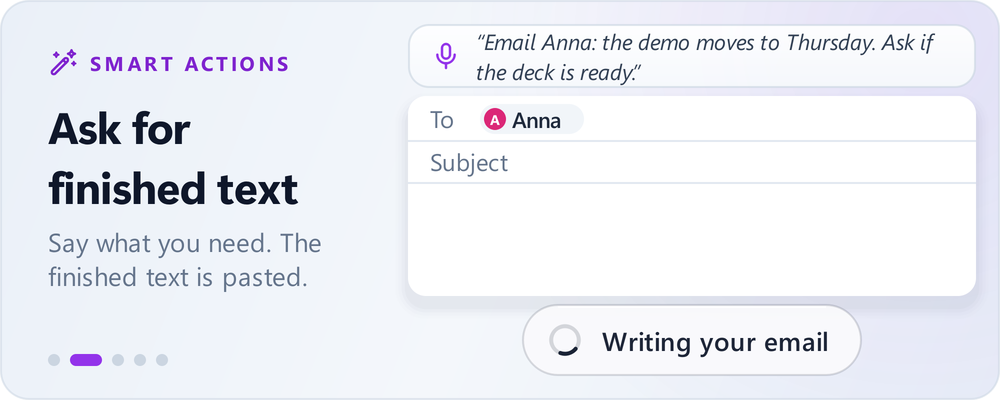
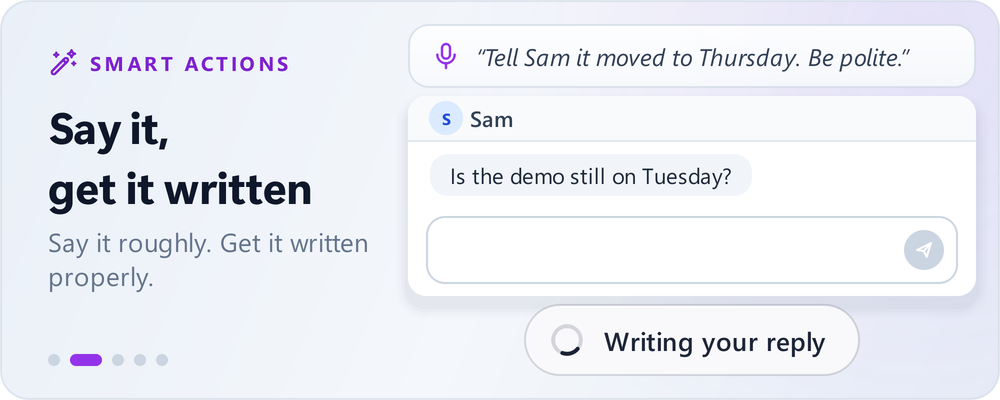
installer: Inno Setup 6 timer types, key-free finish page, clearer slides (review fixes)
- installer.iss: SetTimer/KillTimer/SlideTimerProc use plain LongWord (the Inno
  Setup 6 example); HWND, UINT_PTR and NativeInt are Inno Setup 7 types that the
  6.7 compiler in CI does not know.
- Finish page text names no key ("Press your dictation shortcut in any app and
  talk.") and the finish picture shows a microphone instead of the Alt + R keys.
- Slide 2 (Smart Actions) is a chat reply with its own title and line, no longer
  the email scene of slide 1.
- Slide 4: the card is a small readable Live Assistant card in the left half; the
  divider no longer cuts a letter or the card, and the longest frame shows the
  Hidden note on the "They see" side.
- Slide 5: sample file is team_call_mariam (no "interview"), the transcript is a
  work call, and the last frame keeps the file chip clear of the text.
- tests: Inno Setup 6 declarations pinned (no NativeInt/HWND/UINT_PTR), no key in
  the finish text, no retired wording in the pictures.

diff --git a/installer/make_wizard_art.py b/installer/make_wizard_art.py
@@ -10,8 +10,13 @@ Nothing here runs in CI and nothing at install time: run it by hand after a desi
     venv\\Scripts\\python.exe installer\\make_wizard_art.py            # everything
     venv\\Scripts\\python.exe installer\\make_wizard_art.py --only slides 3 5
 
-Screens are painted with the app's own helpers (ui.theme tokens and fonts, the dictation bar, the Live Assistant
-card, the icons), at 4x and then halved with Lanczos, so text stays crisp at 100% and at 200% screen scale.
+Screens are painted with the app's own helpers (ui.theme tokens and fonts, the dictation bar, the icons), at 4x and
+then halved with Lanczos, so text stays crisp at 100% and at 200% screen scale.
+
+The slides are 1000x400 and Setup stretches them to the width of the progress bar: about 513 px at 100% screen
+scale, so crisp up to about 175%; stretched about 1.1x at 200%, 1.27x at 225% and 1.36x at 250% (soft small text on
+4K laptops). That is accepted: a second picture set would break the size budget and the simple script. If it is
+ever wanted, draw all frames once at about 1360x544 and keep a single file list.
 """
 import argparse
 import json
@@ -50,7 +55,6 @@ theme.load_fonts()
 
 from ui.components import icons  # noqa: E402
 from ui.onboarding_v2 import PILL_DONE, PILL_HAIR, PILL_TINT, WAVE_HEIGHTS, ink, paint_pill  # noqa: E402
-from ui.pages import live_demo  # noqa: E402
 
 q = theme.qcolor
 SS = 4                       # painted at 4x of the logical size ...
@@ -70,8 +74,8 @@ SLIDES = {
     1: dict(eyebrow="Dictation", icon="mic", title="Type with\nyour voice",
             line="Press a shortcut, talk, and it types anywhere.",
             accent=("#2563eb", "#1d4ed8"), ms=(600, 600, 700, 700, 700, 2700)),
-    2: dict(eyebrow="Smart Actions", icon="wand", title="Ask for\nfinished text",
-            line="Say what you need. The finished text is pasted.",
+    2: dict(eyebrow="Smart Actions", icon="wand", title="Say it,\nget it written",
+            line="Say it roughly. Get it written properly.",
             accent=("#9333ea", "#7e22ce"), ms=(600, 600, 900, 900, 900, 2100)),
     3: dict(eyebrow="Meetings", icon="people", title="Meeting notes,\nno bot",
             line="Record a call. Get the summary and action items.",
@@ -371,6 +375,40 @@ def scene1(p, f):
 
 
 # ── slide 2: Smart Actions ───────────────────────────────────────────────────
+def chat_window(p, r, who, bubble, reply):
+    """A chat with ``who``: one incoming bubble and, at the bottom, the field the finished text lands in
+    (``reply`` is a list of lines; empty while nothing is pasted yet)."""
+    r = QRectF(r)
+    shadow(p, r, 9, 16, 8, 5)
+    path = QPainterPath()
+    path.addRoundedRect(r, 9, 9)
+    p.fillPath(path, QColor("#ffffff"))
+    p.save()
+    p.setClipPath(path)
+    p.fillRect(QRectF(r.left(), r.top(), r.width(), 22), q("bg"))
+    p.fillRect(QRectF(r.left(), r.top() + 22, r.width(), 1), q("line"))
+    avatar(p, r.left() + 19, r.top() + 11, 17, who[0], ring=False)
+    text(p, QRectF(r.left() + 31, r.top(), 120, 22), who, 11, 600, "text2")
+    # what they wrote: a grey bubble on the left
+    bw = text_w(bubble, 11, 400) + 20
+    b = QRectF(r.left() + 11, r.top() + 29, bw, 21)
+    pill(p, b, "bg2", radius=9)
+    text(p, b, bubble, 11, 400, "text", Qt.AlignCenter)
+    # the field, with the send button
+    field = QRectF(r.left() + 9, r.bottom() - 40, r.width() - 18, 34)
+    p.setPen(QPen(q("line2"), 1))
+    p.setBrush(QColor("#ffffff"))
+    p.drawRoundedRect(field.adjusted(.5, .5, -.5, -.5), 9, 9)
+    for i, ln in enumerate(reply):
+        text(p, QRectF(field.left() + 9, field.top() + 3 + i * 14, field.width() - 46, 14), ln, 11, 400, "text")
+    btn = QRectF(field.right() - 27, field.center().y() - 10, 20, 20)
+    p.setPen(Qt.NoPen)
+    p.setBrush(q("blue") if reply else q("line2"))
+    p.drawEllipse(btn)
+    icon(p, "send", btn.adjusted(4.5, 4.5, -4.5, -4.5), QColor("#ffffff"), 2.2)
+    p.restore()
+
+
 def scene2(p, f):
     # what you say (the page's own words until you speak)
     strip = QRectF(SX, 12, SW, 32)
@@ -382,29 +420,28 @@ def scene2(p, f):
     else:
         icon(p, "mic", QRectF(strip.left() + 11, strip.center().y() - 8, 16, 16), q("pro"), 1.8)
         text(p, QRectF(strip.left() + 34, strip.top() + 1, strip.width() - 44, strip.height() - 2),
-             "“Email Anna: the demo moves to Thursday. Ask if the deck is ready.”", 11, 400, "text2",
-             wrap=True, italic=True)
-    # the mail it writes
-    subject = "Demo moves to Thursday" if f >= 5 else ""
-    lines = []
+             "“Tell Sam it moved to Thursday. Be polite.”", 11.5, 400, "text2", italic=True)
+    # the reply it writes
+    reply = []
     if f == 5:
-        lines = ["Hi Anna,"]
+        reply = ["Hi Sam, the demo has moved to Thursday."]
     elif f == 6:
-        lines = ["Hi Anna,", "The demo moves to Thursday. Is the deck ready?", "Best,"]
-    mail_window(p, QRectF(SX, 48, SW, 100), "Anna", lines, subject=subject, header=None, body_px=11.5, line_h=14.5)
+        reply = ["Hi Sam, the demo has moved to Thursday.", "Sorry for the change, and thanks!"]
+    chat_window(p, QRectF(SX, 48, SW, 100), "Sam", "Is the demo still on Tuesday?", reply)
     cx, by = SX + SW / 2, 152
     if f in (1, 2):
         keys(p, cx, by + 18, "Alt", "S", lit=(f == 2))
     elif f == 3:
         bar(p, cx, by, "recording", t=0.6)
     elif f == 4:
-        bar(p, cx, by, "transcribing", "Writing your email", t=0.3)
+        bar(p, cx, by, "transcribing", "Writing your reply", t=0.3)
     else:
-        bar(p, cx, by, "pasted", "Email pasted")
+        bar(p, cx, by, "pasted", "Reply pasted")
 
 
 # ── slide 3: Meetings ────────────────────────────────────────────────────────
-FACES = {"A": ("#fce7f3", "#be185d"), "D": ("#e2e8f0", "#475569"), "M": ("#fef3c7", "#92400e")}
+FACES = {"A": ("#fce7f3", "#be185d"), "D": ("#e2e8f0", "#475569"), "M": ("#fef3c7", "#92400e"),
+         "S": ("#dbeafe", "#1d4ed8")}
 
 
 def avatar(p, cx, cy, d, letter, ring=True):
@@ -548,22 +585,35 @@ def label_chip(p, rect, s):
     text(p, r, s, 10, 600, "#ffffff", Qt.AlignCenter)
 
 
-def card_image(scale):
-    """The Live Assistant card (the page's own miniature painter) on a transparent picture of its own, so a
-    clip on the slide cuts it whole (the painter sets clips of its own, which would replace ours)."""
-    cs = live_demo.card_size(scale)
-    c = Canvas(cs.width(), cs.height(), SS, alpha=True)
-    live_demo.paint_card(c.p, 0, 0, "Hidden", "ok", "incognito", scale, None, "light")
-    c.p.end()
-    return c.img, cs
+def assistant_card(p, x, y, w, h, answered):
+    """A small Live Assistant card: its name and the green Hidden chip, the question and the answer. All text is
+    9.5 px or more (it is read at about half size). Before the answer, three dots show that it is being written."""
+    r = QRectF(x, y, w, h)
+    glass(p, r, 10, 250)
+    text(p, QRectF(r.left() + 10, r.top() + 5, 74, 18), "Live Assistant", 9.5, 700, "ink")
+    chip = QRectF(r.right() - 10 - 56, r.top() + 6, 56, 17)
+    pill(p, chip, "#dcfce7", "#86efac")
+    icon(p, "incognito", QRectF(chip.left() + 5, chip.top() + 3.5, 10, 10), q("ok-tx"), 1.8)
+    text(p, QRectF(chip.left() + 18, chip.top(), 36, chip.height()), "Hidden", 9.5, 700, "ok-tx")
+    inner_w = w - 20
+    ask = QRectF(r.left() + 10, r.top() + 28, inner_w, 30)
+    pill(p, ask, "bg2", radius=7)
+    text(p, ask.adjusted(7, 0, -7, 0), "When will the Q4 roadmap be ready?", 9.5, 400, "text", wrap=True)
+    ans = QRectF(r.left() + 10, ask.bottom() + 5, inner_w, r.bottom() - 8 - (ask.bottom() + 5))
+    pill(p, ans, "#eff6ff", "#bfdbfe", radius=7)
+    if answered:
+        text(p, ans.adjusted(7, 0, -7, 0), "Say: “It’s ready for 14 October if we freeze features on Friday.”", 9.5,
+             500, "ink", wrap=True)
+    else:
+        p.setPen(Qt.NoPen)
+        p.setBrush(q("faint"))
+        for i in range(3):
+            p.drawEllipse(QPointF(ans.left() + 13 + i * 9, ans.center().y()), 2.2, 2.2)
 
 
 def scene4(p, f):
     win = QRectF(SX, SY, SW, SH)
     inner = call_window(p, win)
-    scale = 0.34
-    img, cs = card_image(scale)
-    cx, cy = inner.right() - cs.width() - 9, inner.bottom() - cs.height() - 9
     if f == 1:
         # the question, as the call's own caption
         cap = QRectF(inner.left() + 12, inner.bottom() - 36, inner.width() - 24, 26)
@@ -571,21 +621,14 @@ def scene4(p, f):
         text(p, cap.adjusted(10, 0, -8, 0), "Mariam: When will the Q4 roadmap be ready?", 10.5, 500,
              "#ffffff")
         return
-    split = {2: None, 3: None, 4: 0.62, 5: 0.28}[f]
-    x_cut = cx + cs.width() if split is None else min(cx + cs.width(), win.left() + win.width() * split)
-    vis = x_cut - cx                                   # the part of the card that is on the left of the line
-    if vis > 0:
-        p.save()
-        p.setOpacity(0.5 if f == 2 else 1.0)
-        p.setClipRect(QRectF(win.left(), win.top(), x_cut - win.left(), win.height()))
-        shadow(p, QRectF(cx, cy, cs.width(), cs.height()), 8, 34, 8, 4)
-        p.restore()
-        p.save()
-        p.setOpacity(0.5 if f == 2 else 1.0)
-        p.drawImage(QRectF(cx, cy, vis, cs.height()), img, QRectF(0, 0, vis * SS, cs.height() * SS))
-        p.restore()
-    if split is None:
+    # The card sits in the left half of the call. From frame 4 the line splits the screen: the left side is what
+    # you see, the right side what the others see. The line stays in the gap between the "M" and "D" letters
+    # (and the "You" label), and the card ends before it, so nothing is cut.
+    card_h = 111.0
+    assistant_card(p, inner.left() + 9, inner.bottom() - card_h - 9, 150.0, card_h, f >= 3)
+    if f < 4:
         return
+    split = 0.64
     x = win.left() + win.width() * split
     mid = win.center().y()
     p.setPen(QPen(QColor("#0f172a"), 1.6))
@@ -600,15 +643,18 @@ def scene4(p, f):
     label_chip(p, QRectF(win.left() + 12, win.top() + 12, 54, 19), "You see")
     label_chip(p, QRectF(win.right() - 66, win.top() + 12, 54, 19), "They see")
     if f == 5:
-        chip = QRectF(win.left() + win.width() * 0.72 - 46, mid - 13, 92, 26)
+        # in the middle of the "They see" side (clear of the handle): the card is not there, only this note
+        cw = 9 + 16 + 5 + text_w("Hidden", 11.5, 700) + 10
+        mid_x = win.left() + win.width() * (split + 1) / 2
+        chip = QRectF(max(mid_x - cw / 2, x + 16), mid - 13, cw, 26)
         shadow(p, chip, 13, 24, 5, 3)
         pill(p, chip, "#dcfce7", "#86efac")
         icon(p, "incognito", QRectF(chip.left() + 9, chip.top() + 5, 16, 16), q("ok-tx"), 1.7)
-        text(p, QRectF(chip.left() + 29, chip.top(), 60, 26), "Hidden", 11.5, 700, "ok-tx")
+        text(p, QRectF(chip.left() + 30, chip.top(), cw - 30, 26), "Hidden", 11.5, 700, "ok-tx")
 
 
 # ── slide 5: Audio to text ───────────────────────────────────────────────────
-def file_chip(p, cx, cy, name="interview_mariam.m4a", angle=0.0, icon_name="mic", tile="#e8f0fe", tint="blue",
+def file_chip(p, cx, cy, name="team_call_mariam.m4a", angle=0.0, icon_name="mic", tile="#e8f0fe", tint="blue",
               check=False):
     w = text_w(name, 11, 600) + 50 + (18 if check else 0)
     r = QRectF(-w / 2, -15, w, 30)
@@ -678,7 +724,7 @@ def scene5(p, f):
         p.drawRoundedRect(tile, 10, 10)
         icon(p, "mic", tile.adjusted(8, 8, -8, -8), q("blue"), 1.9)
         x0 = card.left() + 58
-        text(p, QRectF(x0, card.top() + 12, 150, 20), "interview_mariam.m4a", 12, 700, "ink")
+        text(p, QRectF(x0, card.top() + 12, 150, 20), "team_call_mariam.m4a", 12, 700, "ink")
         if f == 4:
             p.setPen(Qt.NoPen)
             p.setBrush(PILL_DONE)
@@ -707,14 +753,16 @@ def scene5(p, f):
     L = paper.left() + 16
     p.save()
     if f == 6:
-        p.setOpacity(0.35)
-    text(p, QRectF(L, paper.top() + 12, 170, 18), "interview_mariam.m4a", 12.5, 700, "ink")
+        p.setOpacity(0.7)
+    text(p, QRectF(L, paper.top() + 12, 170, 18), "team_call_mariam.m4a", 12.5, 700, "ink")
     text(p, QRectF(L, paper.top() + 30, 190, 16), "English · 24 min · 2 speakers", 10.5, 400, "muted")
     p.fillRect(QRectF(L, paper.top() + 52, paper.width() - 32, 1), q("line"))
-    rows = (("00:00", "Speaker 1", "#1d4ed8", "Thanks for coming in, Mariam."),
-            ("00:04", "Speaker 2", "#15803d", "Easy, thanks. Traffic was kind today."),
-            ("00:09", "Speaker 1", "#1d4ed8", "Good. Tell me about the project."))
+    rows = (("00:00", "Speaker 1", "#1d4ed8", "Thanks for joining, Mariam."),
+            ("00:04", "Speaker 2", "#15803d", "Happy to. The Q4 roadmap is ready."),
+            ("00:09", "Speaker 1", "#1d4ed8", "Great. Walk me through it."))
     for i, (tm, who, c, line) in enumerate(rows):
+        if f == 6 and i == 2:
+            continue                                   # its place is taken by the file chip below
         y = paper.top() + 62 + i * 34
         text(p, QRectF(L, y, 40, 14), tm, 9.5, 400, "faint", tabular=True)
         text(p, QRectF(L + 38, y, 90, 14), who, 10, 700, c)
@@ -730,7 +778,7 @@ def scene5(p, f):
     text(p, QRectF(b.left() + 30, b.top(), bw - 30, b.height()), "Save Word", 11, 600,
          "#ffffff" if pressed else "text")
     if f == 6:
-        file_chip(p, paper.center().x(), paper.top() + 112, "interview_mariam.docx", 0.0, "file", "#dbeafe", "blue-h",
+        file_chip(p, paper.center().x(), paper.top() + 146, "team_call_mariam.docx", 0.0, "file", "#dbeafe", "blue-h",
                   check=True)
 
 
@@ -779,7 +827,15 @@ def finish_panel(w_px, h_px):
     # the shortcut and the bar, on one frosted card
     card = QRectF(14, 150, 174, 118)
     glass(p, card, 16, 205)
-    keys(p, 101, 150 + 36, "Alt", "R", lit=True, size=40)
+    # the microphone (no key name: people change the shortcut) and the bar
+    mx, my = 101.0, 150 + 36.0
+    p.setPen(Qt.NoPen)
+    p.setBrush(QColor(59, 130, 246, 40))
+    p.drawEllipse(QPointF(mx, my), 25, 25)
+    shadow(p, QRectF(mx - 21, my - 21, 42, 42), 21, 34, 7, 4, (37, 99, 235))
+    p.setBrush(q("blue"))
+    p.drawEllipse(QPointF(mx, my), 21, 21)
+    icon(p, "mic", QRectF(mx - 11, my - 11, 22, 22), QColor("#ffffff"), 2.0)
     bar(p, 101, 150 + 70, "pasted")
     return c.pil().convert("RGB").resize((w_px, h_px), Image.LANCZOS)
 

diff --git a/tests/test_installer_slideshow.py b/tests/test_installer_slideshow.py
@@ -251,14 +251,20 @@ class TestSlideshowCode(unittest.TestCase):
                     self.assertLess(names.index(other), index,
                                     "%s uses %s, which is declared after it" % (name, other))
 
-    def test_the_timer_declarations_are_the_ones_from_the_inno_setup_example(self):
-        # Examples\CodeDll.iss of Inno Setup.
-        self.assertIn("function SetTimer(hWnd: HWND; nIDEvent: UINT_PTR; uElapse: UINT; "
-                      "lpTimerFunc: NativeInt): UINT_PTR;\n  external 'SetTimer@user32.dll stdcall';", self.text)
-        self.assertIn("function KillTimer(hWnd: HWND; nIDEvent: UINT_PTR): BOOL;\n"
+    def test_the_timer_declarations_are_the_ones_from_the_inno_setup_6_example(self):
+        # Examples\CodeDll.iss of Inno Setup 6.7: plain LongWord. HWND, UINT_PTR and NativeInt
+        # are types of Inno Setup 7; the Inno Setup 6 compiler (CI) does not know them.
+        self.assertIn("function SetTimer(hWnd, nIDEvent, uElapse, lpTimerFunc: LongWord): LongWord;\n"
+                      "  external 'SetTimer@user32.dll stdcall';", self.text)
+        self.assertIn("function KillTimer(hWnd, nIDEvent: LongWord): BOOL;\n"
                       "  external 'KillTimer@user32.dll stdcall';", self.text)
-        self.assertIn("procedure SlideTimerProc(Arg1: HWND; Arg2: UINT; Arg3: UINT_PTR; Arg4: DWORD);", self.text)
+        self.assertIn("procedure SlideTimerProc(Arg1, Arg2, Arg3, Arg4: LongWord);", self.text)
+        self.assertIn("  SlideTimer: LongWord;", self.text)
+        self.assertIn("  TimerId: LongWord;", self.text)
         self.assertEqual(self.text.count("CreateCallback(@SlideTimerProc)"), 1)
+        # self.code has no comments: the comment above the declarations names these types on purpose.
+        for seven_only in ("NativeInt", "NativeUInt", "UINT_PTR", "HWND"):
+            self.assertNotIn(seven_only, self.code)
 
     def test_nothing_of_the_slideshow_runs_in_a_silent_install(self):
         body = self._body("StartSlides")
@@ -357,11 +363,12 @@ class TestFinishPage(unittest.TestCase):
         self.assertEqual(sorted(msgs), ["FinishedHeadingLabel", "FinishedLabel", "FinishedLabelNoIcons"])
         self.assertEqual(msgs["FinishedHeadingLabel"], "{#MyAppName} is ready")
         self.assertEqual(msgs["FinishedLabel"], msgs["FinishedLabelNoIcons"])
-        self.assertEqual(msgs["FinishedLabel"], "Press Alt + R in any app and talk.")
+        self.assertEqual(msgs["FinishedLabel"], "Press your dictation shortcut in any app and talk.")
 
-    def test_the_default_shortcut_in_the_text_is_the_apps_default(self):
-        main = _read(ROOT / "main.py")
-        self.assertRegex(main, r'"hotkey":\s*"alt\+r"')
+    def test_the_finish_text_names_no_key(self):
+        # The shortcut can be changed in the app (or be a mouse button): never promise one.
+        for line in _section(self.text, "Messages"):
+            self.assertNotRegex(line, r"(?i)\b(alt|ctrl|shift|win)\b|\bF\d{1,2}\b", line)
 
     def test_an_update_says_updated_in_the_one_line_heading(self):
         page = _routines(_code(self.text))["CurPageChanged"]
@@ -375,6 +382,35 @@ class TestFinishPage(unittest.TestCase):
         self.assertIn('Description: "Launch {#MyAppName}"', run[0])
         self.assertIn("postinstall", run[0])
         self.assertIn("skipifsilent", run[0])
+
+
+class TestPictureCopy(unittest.TestCase):
+    """The words in the pictures are baked into PNG files, so they are checked in the script that draws them
+    (installer/make_wizard_art.py) and in the manifest it writes."""
+
+    def setUp(self):
+        self.art = _read(INSTALLER / "make_wizard_art.py")
+        self.manifest = _read(WIZARD / "slides.json")
+
+    def test_no_retired_wording_in_the_pictures(self):
+        # "interview" is a retired word (Live Assistant is not for interviews); sample files are team calls.
+        for name, body in (("make_wizard_art.py", self.art), ("slides.json", self.manifest)):
+            self.assertNotRegex(body, r"(?i)interview", name)
+
+    def test_the_finish_picture_names_no_key(self):
+        start = self.art.index("def finish_panel(")
+        body = self.art[start:self.art.index("def small_image(")]
+        self.assertNotIn('"Alt"', body)
+        self.assertNotIn("keys(", body)
+
+    def test_smart_actions_is_not_the_dictation_scene(self):
+        # Slide 1 is an email to Anna, slide 2 a chat with Sam: two different pictures of two different things.
+        slides = {s["n"]: s for s in json.loads(self.manifest)["slides"]}
+        self.assertEqual(slides[2]["title"], "Say it, get it written")
+        self.assertEqual(slides[2]["line"], "Say it roughly. Get it written properly.")
+        scene2 = self.art[self.art.index("def scene2("):self.art.index("# ── slide 3")]
+        self.assertNotIn("mail_window", scene2)
+        self.assertNotIn("Anna", scene2)
 
 
 class TestNamesExistingInstallsDependOn(unittest.TestCase):
